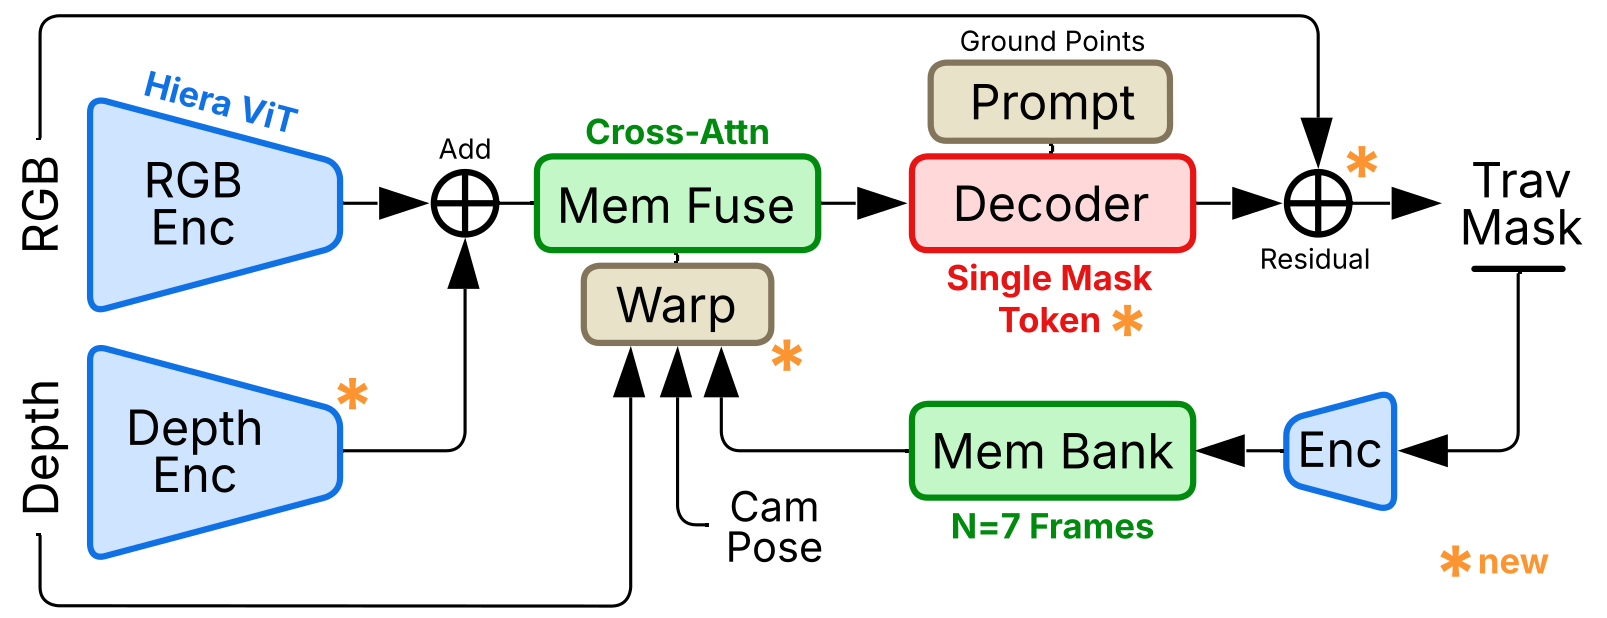
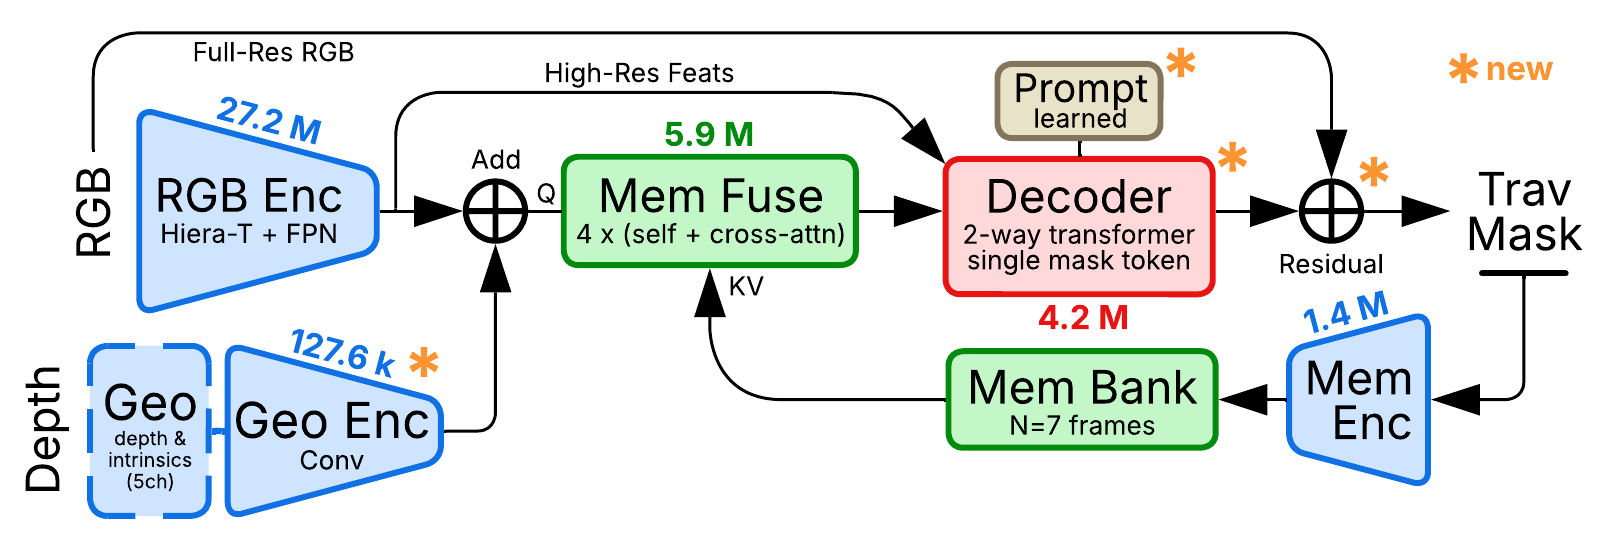
Update README to clarify memory handling and remove outdated geometric alignment explanation; update architecture diagram

diff --git a/README.md b/README.md
@@ -163,20 +163,8 @@ decoder are accepted and ignored. A checkpoint carrying SAM 2's
 `point_embeddings` / `mask_downscaling` weights is a different model and won't
 load.
 
-**Memory is read without geometric alignment.** SAM 2 tags each memory slot with
-a position encoding that is a pure function of grid index, giving memory
-attention the prior "token *k* in memory is token *k* now". On a forward-driving
-robot that is false every frame, since the field flows outward and rescales. An
-earlier revision resampled stored features into the current camera frame using
-depth and pose to supply the correspondence explicitly. It was removed: measured
-at 1000 sequence windows it moved fuzzy Jaccard by +0.0016 (95% CI
-[-0.0035, +0.0002], not significant, and smaller than twice the seed-to-seed
-spread) while requiring a camera pose at inference. Attention recovers the
-correspondence from content well enough that paying a localisation dependency for
-it is not worth it.
-
 Checkpoints load **strictly**, and the architecture is read back from the weights
-rather than from flags — the geometry encoder and refinement head are top-level
+rather than from flags, the geometry encoder and refinement head are top-level
 modules, so a lenient load would drop all of their tensors silently
 and run an ablated model under the full model's name.
 
